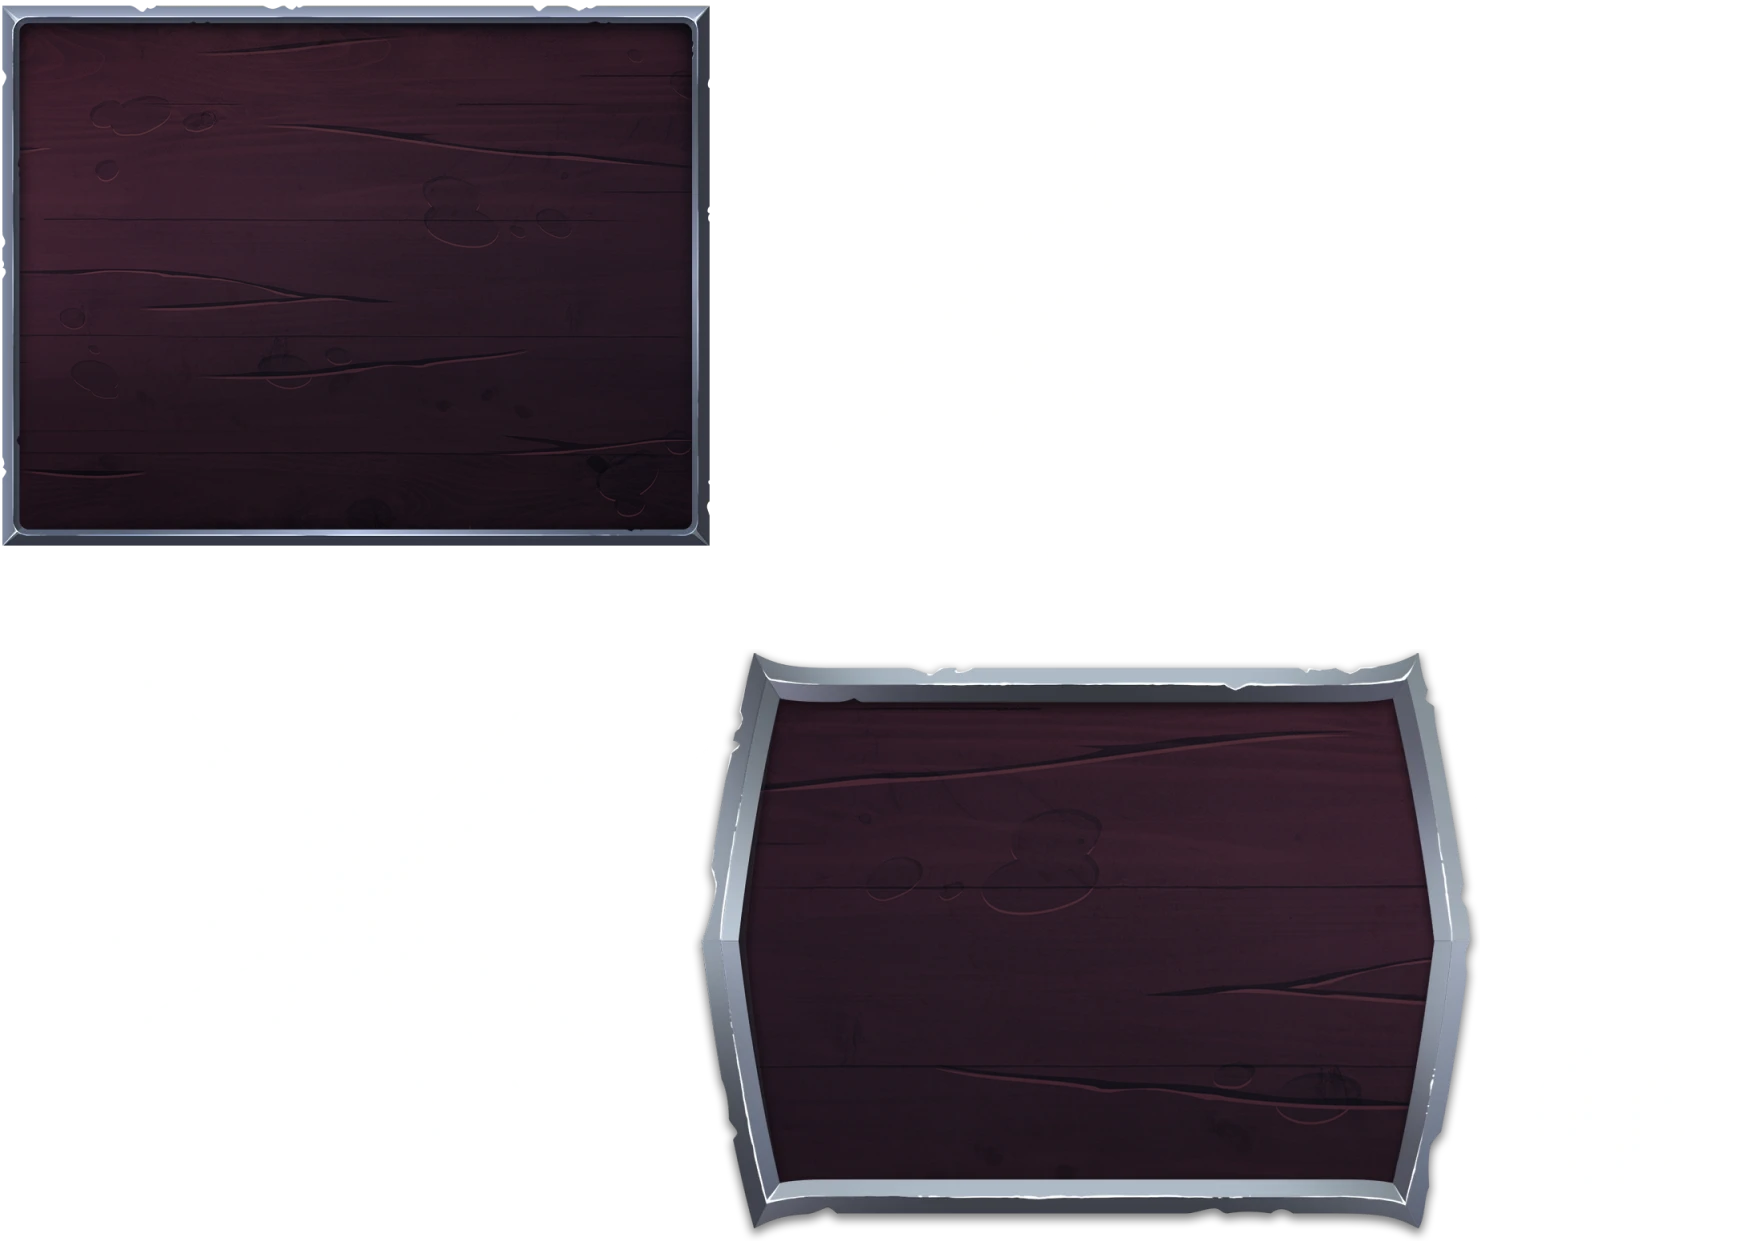
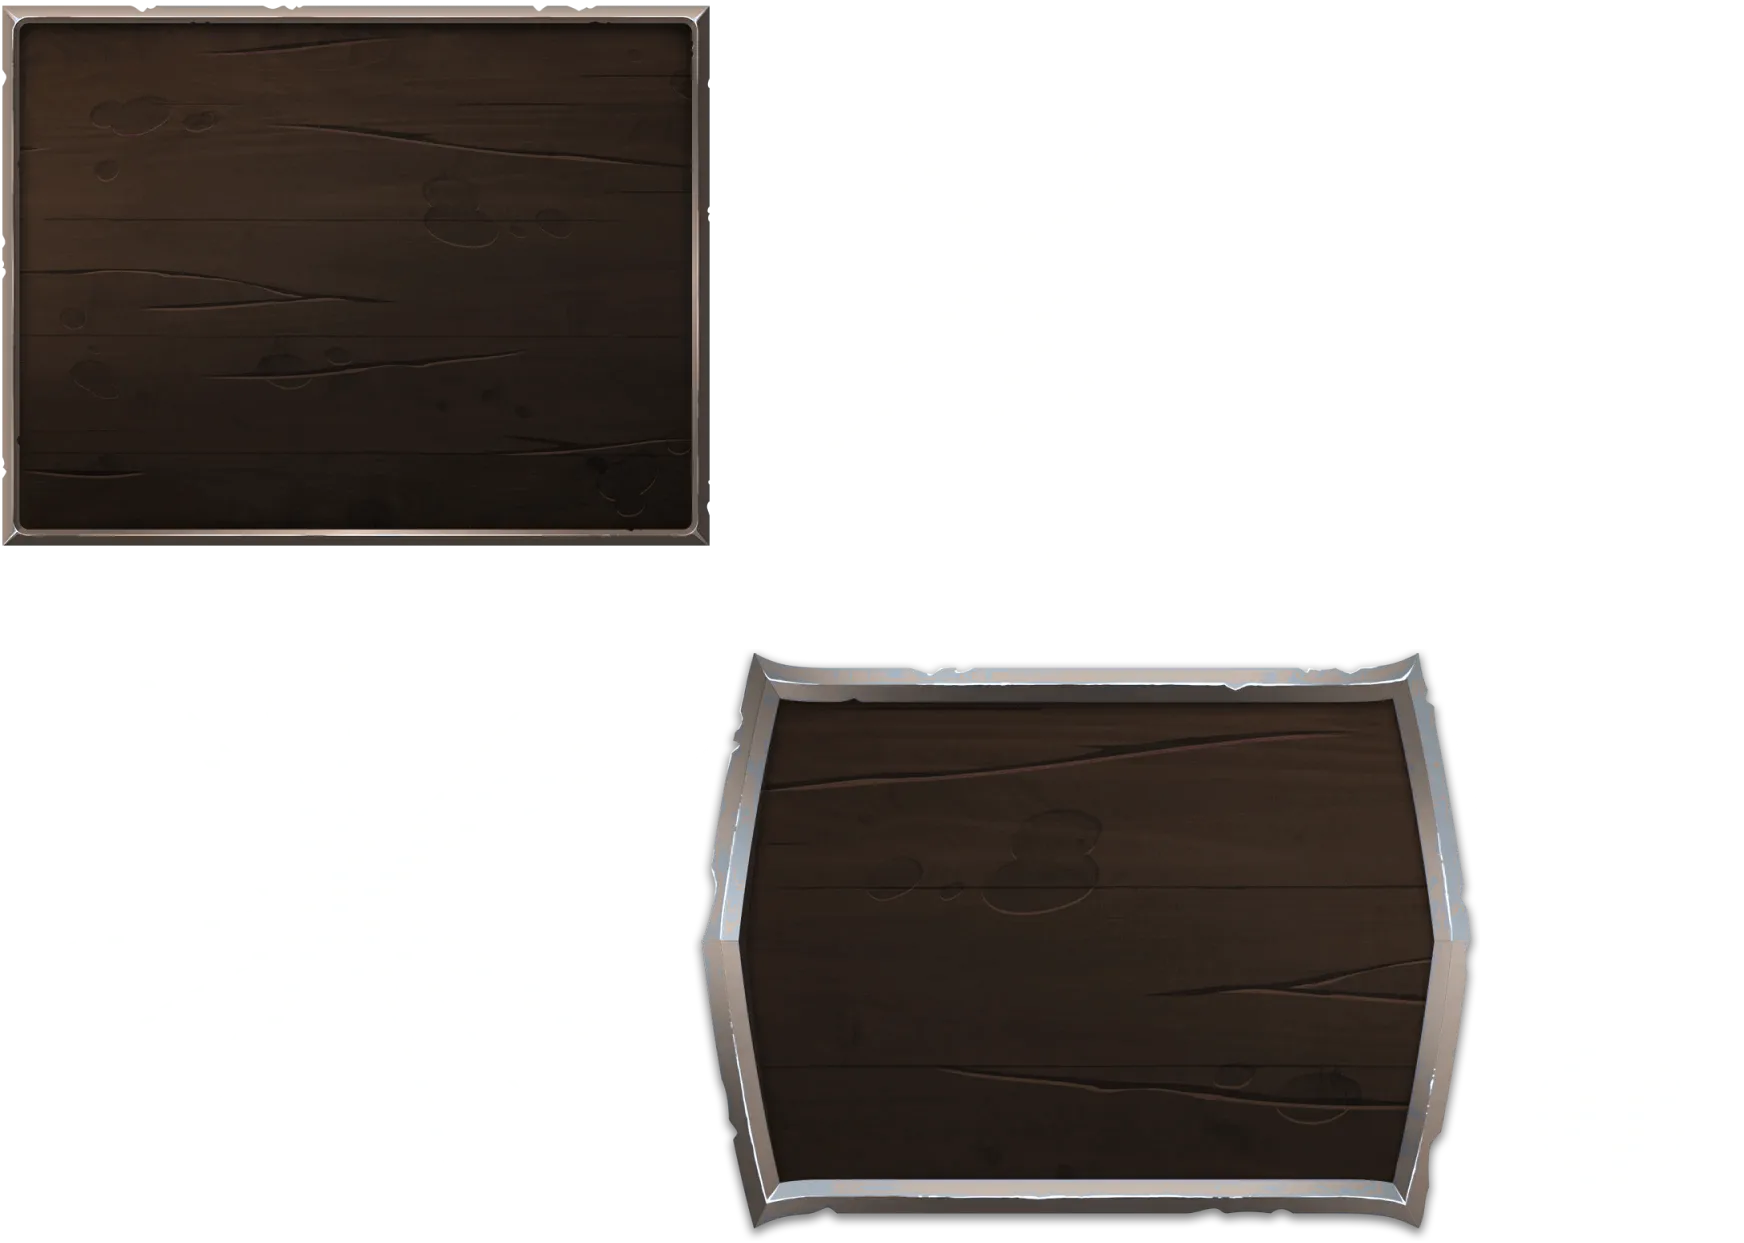
Bloody Seafood: purge and repalette the rest of the Mining Mayhem art
Deleted, all unused: the two bitmap fonts (1.1MB, no fontFamily
references anywhere), sorting_table, payFrame, the fsIntro number
skeletons, MM_pressanywhere (the MM prefix is the old game's), the stray
fish sprites and uiSlotsAssetsBespoke. Kept reelsFrame and progressBar,
whose keys look unused but whose frames drive the board frame and the
loading screen.

The remaining inherited VFX are all still rendered, so they are
repaletted rather than removed: repalette_spines.py hue-shifts the violet
arc of each texture page into the game's rust while leaving warm pixels
alone, so the board glow, the free-spin panel and the multiplier frame
move from mining purple to rust and deck brown. Region coordinates are
untouched, so the skeletons animate exactly as before. Originals are
backed up outside the repo in bs-render/backup_spines.

build/ 27MB -> 25MB.

Still inherited, and not fixable by palette: the anticipation frame's ore
chunks, tumbleWin's gears and the bigwin wordmarks - already warm-toned,
so their tell is shape, not colour. Those need authored replacements.

diff --git a/apps/bloody_seafood/src/game/assets.ts b/apps/bloody_seafood/src/game/assets.ts
@@ -41,11 +41,6 @@ export default {
 		src: new URL('../../assets/sprites/bgLayers/bg_water.png', import.meta.url).href,
 		preload: true,
 	},
-	sortingTable: {
-		type: 'sprite',
-		src: new URL('../../assets/sprites/table/sorting_table.png', import.meta.url).href,
-		preload: true,
-	},
 	betUp: {
 		type: 'sprite',
 		src: new URL('../../assets/sprites/ui/bet_up.png', import.meta.url).href,
@@ -90,10 +85,6 @@ export default {
 		type: 'sprites',
 		src: new URL('../../assets/sprites/reelsFrame/reels_frame.json', import.meta.url).href,
 	},
-	payFrame: {
-		type: 'sprite',
-		src: new URL('../../assets/sprites/payFrame/payFrame.png', import.meta.url).href,
-	},
 	anticipation: {
 		type: 'spine',
 		src: {
@@ -101,14 +92,6 @@ export default {
 			skeleton: new URL('../../assets/spines/anticipation/anticipation.json', import.meta.url).href,
 			scale: 2,
 		},
-	},
-	goldFont: {
-		type: 'font',
-		src: new URL('../../assets/fonts/goldFont/bs_gold.xml', import.meta.url).href,
-	},
-	goldBlur: {
-		type: 'font',
-		src: new URL('../../assets/fonts/goldBlur/bs_gold_blur.xml', import.meta.url).href,
 	},
 	bigwin: {
 		type: 'spine',
@@ -131,22 +114,6 @@ export default {
 		src: {
 			atlas: new URL('../../assets/spines/fsIntro/fs_screen.atlas', import.meta.url).href,
 			skeleton: new URL('../../assets/spines/fsIntro/fs_screen.json', import.meta.url).href,
-			scale: 2,
-		},
-	},
-	fsIntroNumber: {
-		type: 'spine',
-		src: {
-			atlas: new URL('../../assets/spines/fsIntro/fs_screen.atlas', import.meta.url).href,
-			skeleton: new URL('../../assets/spines/fsIntro/fs_screen_number.json', import.meta.url).href,
-			scale: 2,
-		},
-	},
-	fsOutroNumber: {
-		type: 'spine',
-		src: {
-			atlas: new URL('../../assets/spines/fsIntro/fs_screen.atlas', import.meta.url).href,
-			skeleton: new URL('../../assets/spines/fsIntro/fs_total_number.json', import.meta.url).href,
 			scale: 2,
 		},
 	},
